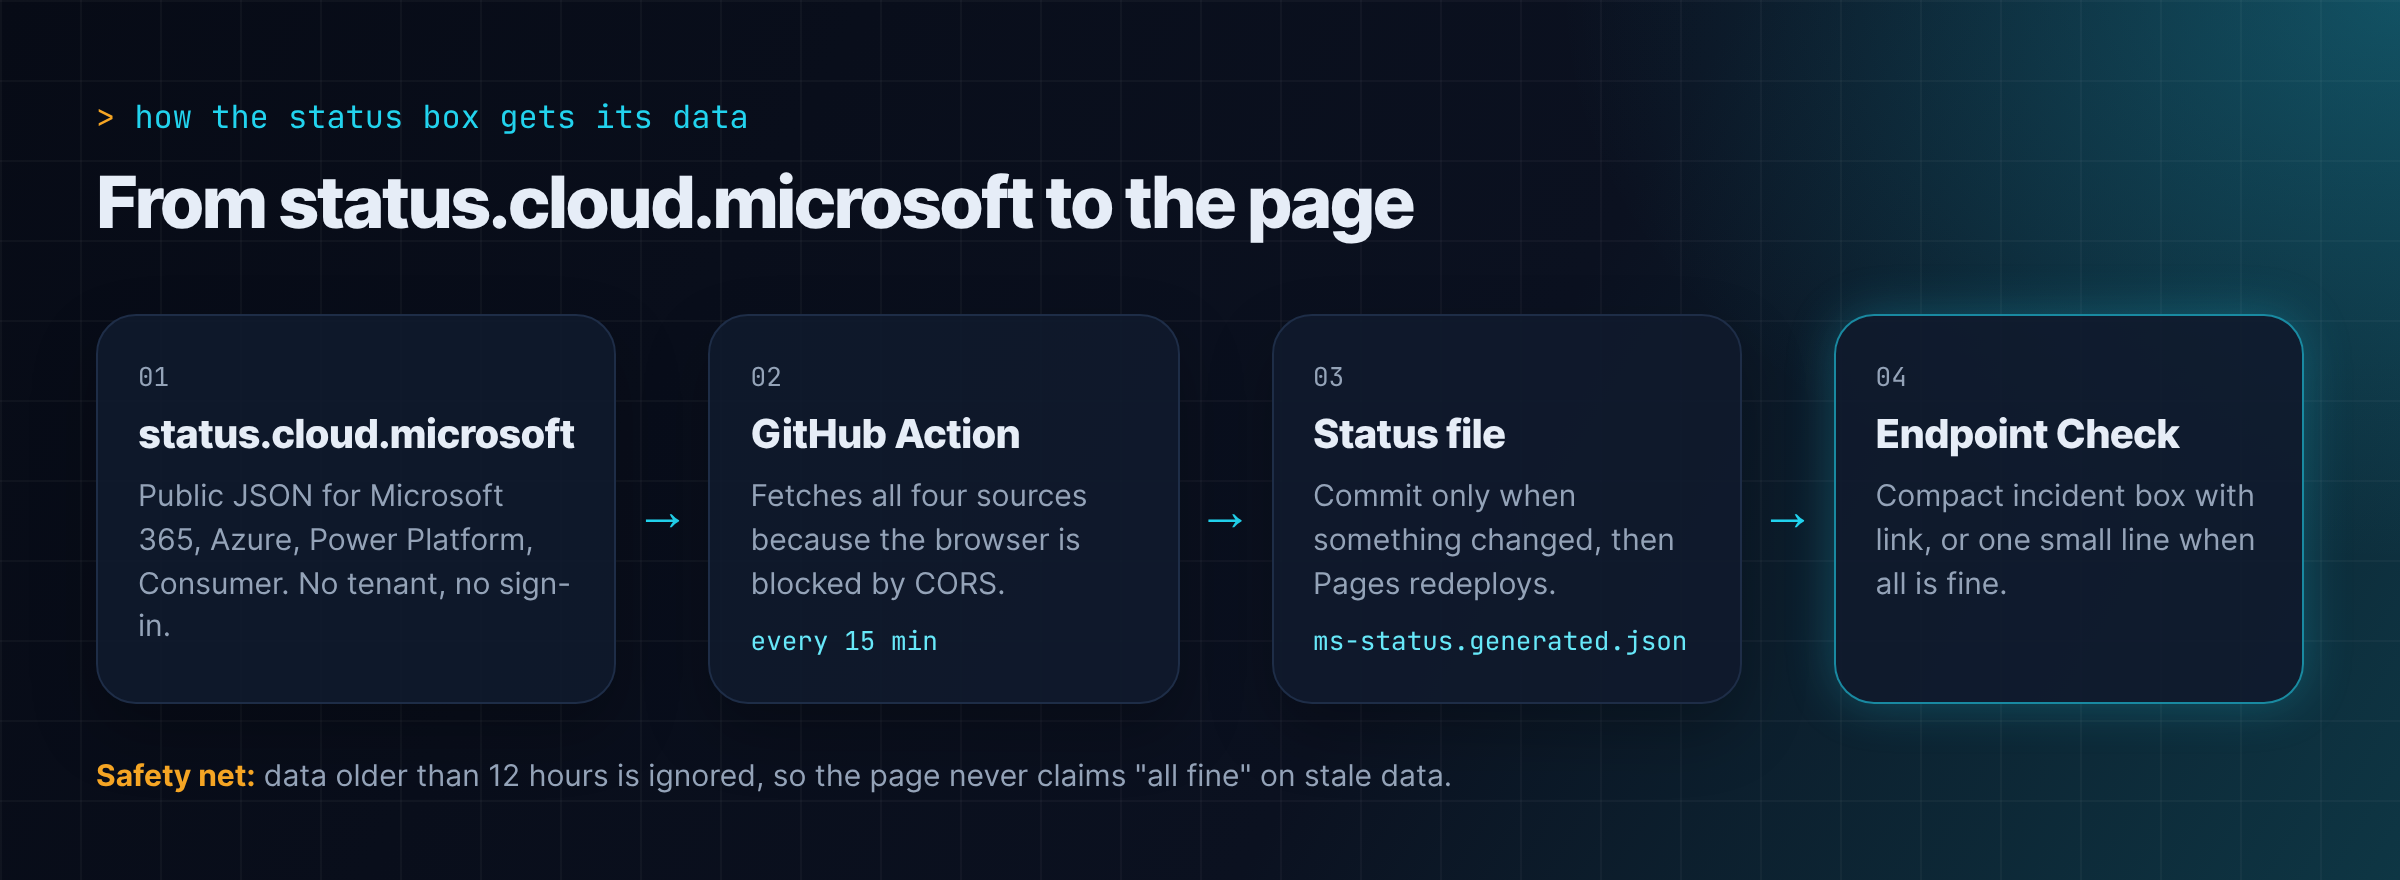
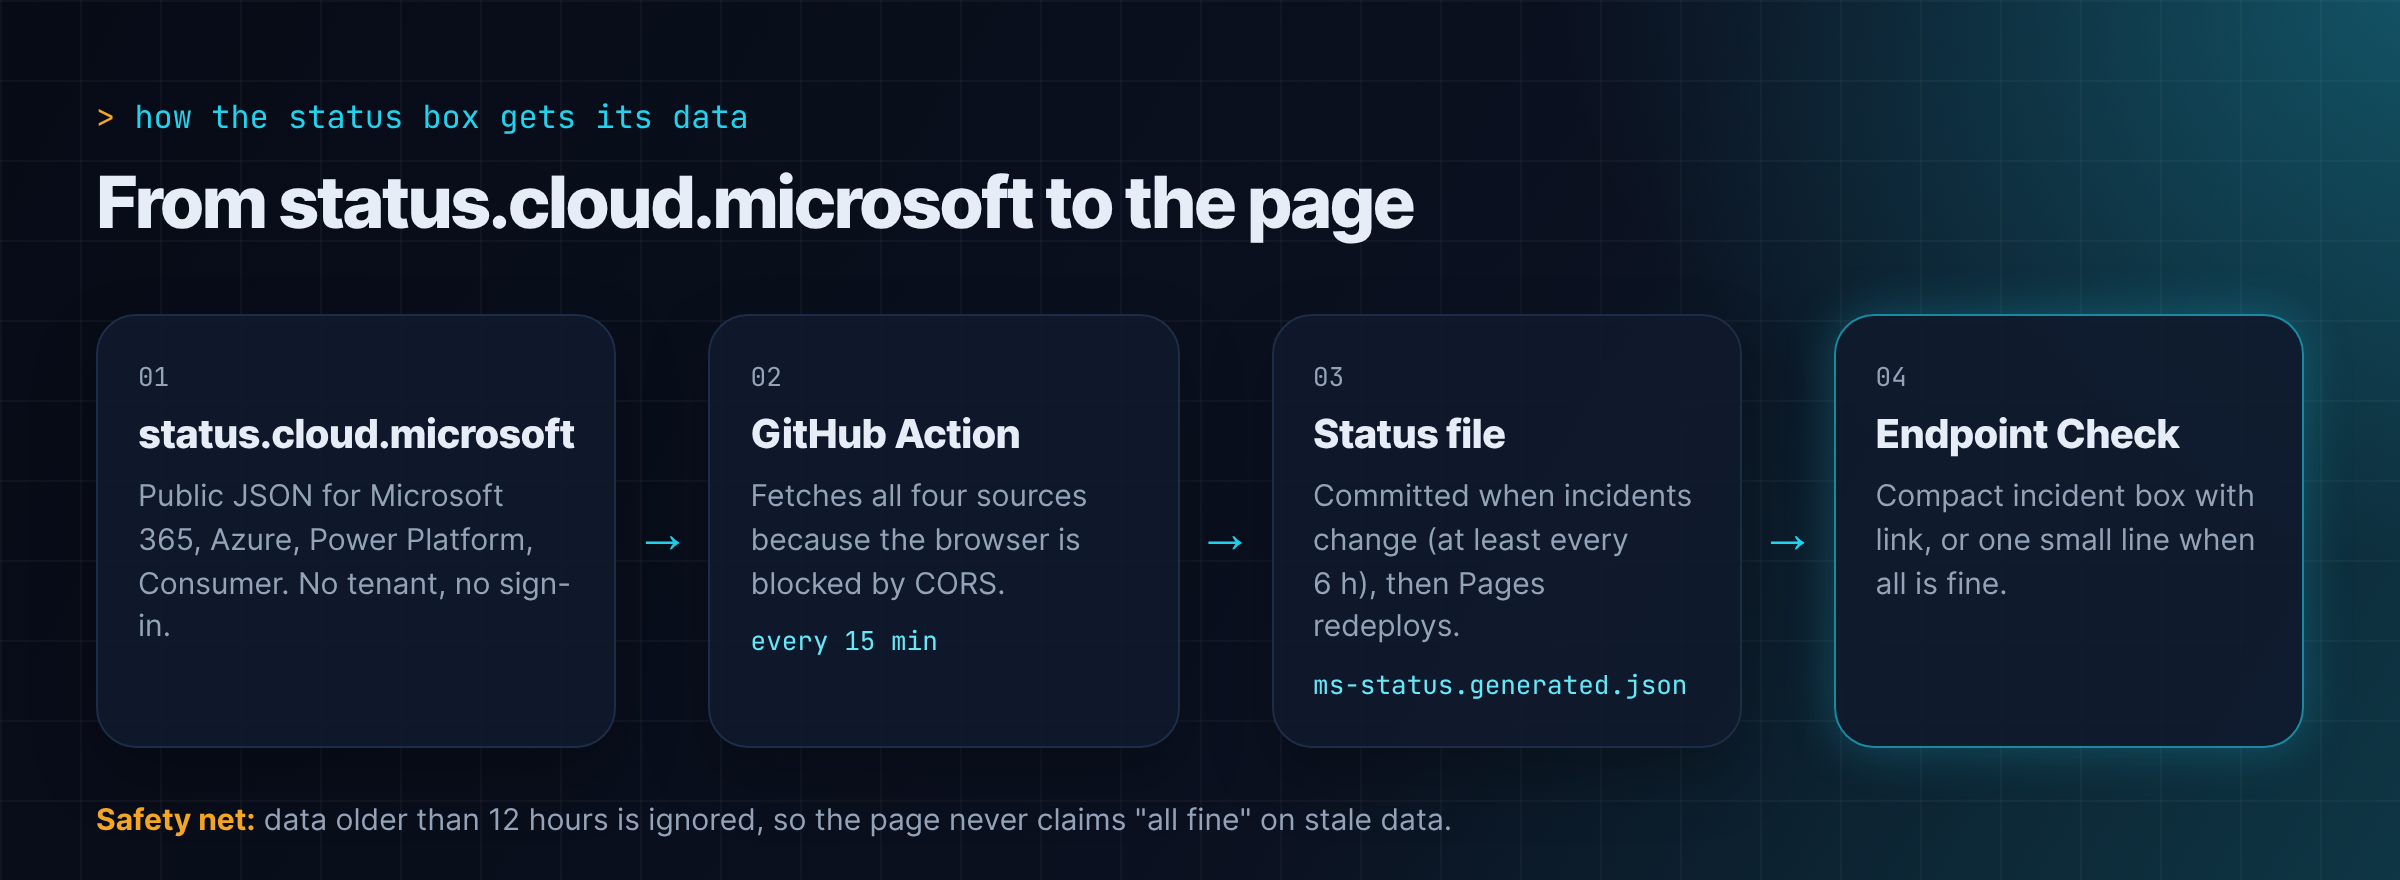
Add how-it-works graphic with endpoint URLs to the blog post
New section in both languages explaining where the endpoint URLs come
from (Microsoft Learn), how the browser tests them and which services
are checked. Status flow graphic and text now mention the 6-hour refresh.

Claude-Session: https://claude.ai/code/session_01EEtZYeZtp6Ds2f9AyULWea

diff --git a/blog/microsoft-service-status-endpoint-check.html b/blog/microsoft-service-status-endpoint-check.html
@@ -111,6 +111,19 @@
 
     <p>Deshalb steht diese Information jetzt direkt über dem Erreichbarkeitstest.</p>
 
+    <h2>So funktioniert der Endpoint Check</h2>
+
+    <p>Kurz zur Erinnerung, was die Seite eigentlich macht. Die Liste der Endpunkte stammt aus den offiziellen Microsoft-Learn-Seiten der jeweiligen Dienste, zum Beispiel <a href="https://learn.microsoft.com/en-us/intune/fundamentals/endpoints" rel="noopener" target="_blank">Intune</a> oder <a href="https://learn.microsoft.com/en-us/microsoft-365/enterprise/urls-and-ip-address-ranges" rel="noopener" target="_blank">Microsoft 365</a>. Eine GitHub Action liest diese Seiten jeden Sonntag aus und schreibt das Ergebnis nach <code>web/data/endpoints.generated.json</code>. Die Seite versucht zusätzlich, die Listen live zu aktualisieren, und fällt sonst auf diese Datei zurück.</p>
+
+    <p>Aktuell sind das 10 Dienste mit 288 Endpunkten, von Intune über Windows Update, Autopatch und Defender bis zu Microsoft 365, Edge und Windows Telemetry.</p>
+
+    <figure class="post-figure">
+      <img src="../assets/img/microsoft-endpoint-check-how-it-works.png" alt="Funktionsweise: Endpunktlisten von Microsoft Learn, Erreichbarkeitstest im Browser mit HEAD- und GET-Anfrage, Ergebnis mit reachable, timeout und unreachable sowie 10 Dienste mit Beispiel-Hosts" width="2400" height="1568" loading="lazy" />
+      <figcaption>Von Microsoft Learn bis in den Browser: woher die URLs kommen, wie getestet wird und welche Dienste dabei sind.</figcaption>
+    </figure>
+
+    <p>Getestet wird direkt aus dem Browser des Clients. Damit prüft die Seite genau das Netzwerk, den Proxy und die Firewall, hinter denen das Gerät tatsächlich hängt. Pro Endpunkt schickt sie zuerst eine HEAD-Anfrage und, wenn der Browser die blockiert, eine GET-Anfrage im no-cors-Modus. Nach 8 Sekunden gilt der Endpunkt als Timeout. Jede Antwort zählt als erreichbar, auch ein 403 oder 500, denn es geht um die Verbindung und nicht um den Inhalt. Am Ende stehen die Ergebnisse gruppiert pro Dienst, mit Proxy-Hinweisen und Export als JSON oder CSV.</p>
+
     <h2>Was neu ist</h2>
 
     <ul>
@@ -133,7 +146,7 @@
 
     <ol>
       <li>Alle 15 Minuten ruft sie die vier öffentlichen Quellen ab.</li>
-      <li>Das Ergebnis landet in der Datei <code>web/data/ms-status.generated.json</code>. Committet wird nur, wenn sich etwas geändert hat.</li>
+      <li>Das Ergebnis landet in der Datei <code>web/data/ms-status.generated.json</code>. Committet wird nur, wenn sich die Incidents ändern oder der letzte Stand älter als 6 Stunden ist.</li>
       <li>Danach baut GitHub Pages die Seite neu, und der Endpoint Check zeigt den neuen Stand.</li>
     </ol>
 

diff --git a/blog/microsoft-service-status-endpoint-check-en.html b/blog/microsoft-service-status-endpoint-check-en.html
@@ -111,6 +111,19 @@
 
     <p>So this information now sits right above the reachability check.</p>
 
+    <h2>How the Endpoint Check works</h2>
+
+    <p>A quick reminder of what the page actually does. The endpoint list comes from the official Microsoft Learn pages of each service, for example <a href="https://learn.microsoft.com/en-us/intune/fundamentals/endpoints" rel="noopener" target="_blank">Intune</a> or <a href="https://learn.microsoft.com/en-us/microsoft-365/enterprise/urls-and-ip-address-ranges" rel="noopener" target="_blank">Microsoft 365</a>. A GitHub Action parses these pages every Sunday and writes the result to <code>web/data/endpoints.generated.json</code>. The page also tries to refresh the lists live and falls back to that file otherwise.</p>
+
+    <p>Right now that is 10 services with 288 endpoints, from Intune, Windows Update, Autopatch and Defender to Microsoft 365, Edge and Windows Telemetry.</p>
+
+    <figure class="post-figure">
+      <img src="../assets/img/microsoft-endpoint-check-how-it-works.png" alt="How it works: endpoint lists from Microsoft Learn, reachability check in the browser with HEAD and GET requests, result with reachable, timeout and unreachable, and 10 services with example hosts" width="2400" height="1568" loading="lazy" />
+      <figcaption>From Microsoft Learn to your browser: where the URLs come from, how they are tested and which services are included.</figcaption>
+    </figure>
+
+    <p>The test runs directly in the client's browser. That way the page checks exactly the network, proxy and firewall the device really sits behind. For each endpoint it first sends a HEAD request and, if the browser blocks that, a GET request in no-cors mode. After 8 seconds the endpoint counts as a timeout. Any response counts as reachable, even a 403 or 500, because this is about the connection, not the content. The results end up grouped per service, with proxy hints and export as JSON or CSV.</p>
+
     <h2>What is new</h2>
 
     <ul>
@@ -133,7 +146,7 @@
 
     <ol>
       <li>Every 15 minutes it fetches the four public sources.</li>
-      <li>The result goes into <code>web/data/ms-status.generated.json</code>. It only commits when something changed.</li>
+      <li>The result goes into <code>web/data/ms-status.generated.json</code>. It only commits when the incidents change or the last check is older than 6 hours.</li>
       <li>GitHub Pages then redeploys the site, and the Endpoint Check shows the new state.</li>
     </ol>
 
